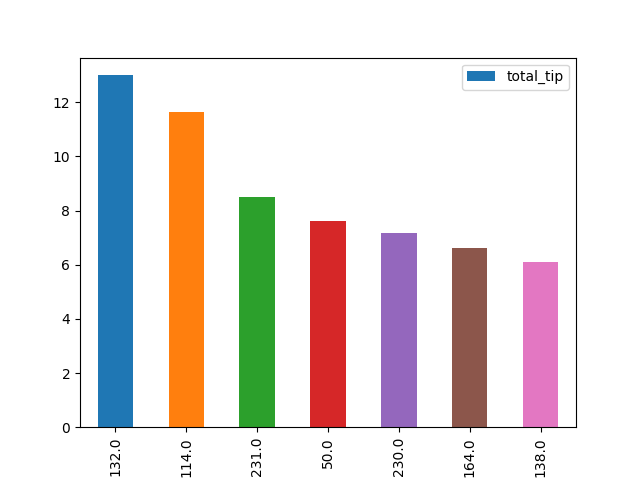
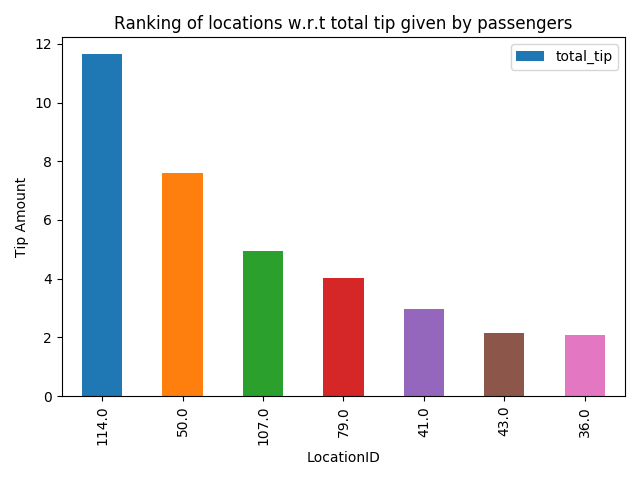
Added axis labels

diff --git a/code/customer-code/customer_realtime-view.py b/code/customer-code/customer_realtime-view.py
@@ -21,6 +21,10 @@ for i in range(1,264):
 
 print(df)
 
+print("Customer Realtimeview App")
+
+print("This will start updating as soon as streaming results are out")
+
 
 
 def updateOutputPlot(location_id,total_tip):
@@ -36,8 +40,16 @@ def updateDataframe(location_id,total_tip,n):
     df.iat[location_id-1,1] = total_tip
     #Getting the top n tip earning areas 
     df_plot = df.nlargest(n, 'total_tip')
+
+   
     
     df_plot.plot(kind='bar',x='location_id',y='total_tip',color=mcolors.TABLEAU_COLORS)
+
+    plt.title('Ranking of locations w.r.t total tip given by passengers')
+    plt.xlabel('LocationID')
+    plt.ylabel('Tip Amount')
+    plt.tight_layout()
+    
     plt.savefig(curr_path+"/../../reports/near-realtime_results/near-realtime-bar-chart.png")
     plt.clf()
 

diff --git a/code/customer-code/customerstreamapp/src/main/java/com/kibria/Customerstreamapp.java b/code/customer-code/customerstreamapp/src/main/java/com/kibria/Customerstreamapp.java
@@ -292,7 +292,7 @@ public class Customerstreamapp {
 		
 
 		//maxTipDest.print();
-		env.execute("Tips per location");
+		env.execute("Total Tip per location");
 
 
 

diff --git a/reports/Assignment-3-Design.md b/reports/Assignment-3-Design.md
@@ -20,14 +20,14 @@ Previously, this dataset used to include the latitude and longitude of the picku
 
 **Streaming analytics:**
 
-The taxi drivers might be interested in finding the pickup areas of those rides, in which the passagers usually gives more **tips**. So, here I'm going to develop a streaming analytics for the **taxi drivers or a company devloping an app for the drivers (my customers)**, where they will be able to see the status quo of total tip amount paid by the passengers for the rides which started in these pickup location. So that, if a driver wishes, he can go to such vicinties in the hope of earning more based on the idea that these areas might have more corporate offices or the passagers living in these areas are relatively rich and generous. 
+The taxi drivers might be interested in finding the pickup areas of those rides, in which the passagers usually gives more **tip**. So, here I'm going to develop a streaming analytics for the **taxi drivers or a company devloping an app for the drivers (my customers)**, where they will be able to see the status quo of total tip amount paid by the passengers for the rides which started in these pickup location. So that, if a driver wishes, he can go to such vicinties in the hope of earning more based on the idea that these areas might have more corporate offices or the passagers living in these areas are relatively rich and generous. 
 
-To be more clear, the taxi drivers will be able see the **top n** (my customer defines the **n**) pickup locations which resulted into highest total tips, updating in near real-time.
+To be more clear, the taxi drivers will be able see the **top n** (my customer defines the **n**) pickup locations which resulted into highest total tip, updating in near real-time.
 
 **Batch analytics from the historical output of Streaming analytics:**
 
 
-Here again my customers will be able to see the pickup locations of the taxi rides which resulted into maximum tips but as this analysis will be generated from the **bounded data** generated by my streming analytics output, my customers will have the freedom of seeing this batch analytics results based on their specified time-frame (i.e. daily, weekly, monthly etc).
+Here again my customers will be able to see the pickup locations of the taxi rides which resulted into maximum tip but as this analysis will be generated from the **bounded data** generated by my streming analytics output, my customers will have the freedom of seeing this batch analytics results based on their specified time-frame (i.e. daily, weekly, monthly etc).
 
 Moreover, I will plot the result of this batch analytics onto a **co-ordinate map**, to make this analytics intutive and easy to understand for my customers.
 
@@ -36,7 +36,7 @@ Moreover, I will plot the result of this batch analytics onto a **co-ordinate ma
 
 **Answer:**
 
-**i.** The streaming analytics that I am implementing here should handle **keyed** data stream. Because, the analytics is going to calculate total amount tips of all the taxi rides starting from a particular pickup location. In order to calculate this, the data stream must be keyed by the pickup location id **(PULocationID)**, so that the incoming taxi ride events will be partioned by their **(PULocationID)** and the output of the streaming analytics for each of these locations will be calculated parallelly.
+**i.** The streaming analytics that I am implementing here should handle **keyed** data stream. Because, the analytics is going to calculate total amount tip of all the taxi rides starting from a particular pickup location. In order to calculate this, the data stream must be keyed by the pickup location id **(PULocationID)**, so that the incoming taxi ride events will be partioned by their **(PULocationID)** and the output of the streaming analytics for each of these locations will be calculated parallelly.
 
 ![Key](images/keyBy.png)
 For example, in the diagram above, I am receiving the taxi ride events from the Kafka source and then passing it through the **KeyBy Operator** which eventually allocates them to the **Window Operators**. In the diagram the taxi ride events **R<sub>1</sub>** through **R<sub>6</sub>** are colored according to their location ID. After passing through the keyBy Operator they are **partitioned** according to their pickup location ID and then they are passed to appropiate window operator. Then each of these window operators **materializes** the result of streaming analysis parallelly **when** at proper time (The discussion about timing of window matrialization is discussed in answer of question no. 3).
@@ -55,29 +55,29 @@ But definately, my ultimate target is to provide exactly-once delivery.
 
 **Answer:**
 
-**i.** The particular streaming analytics that I'm implementing here requires consideration of **event time**. Because, here I'm computing the total amount of tips per pickup location and presenting the ouput to my customers (taxi drivers) in near-realtime, so that the drivers can go these vicinities to find such a trip in the hope of more earnings. 
+**i.** The particular streaming analytics that I'm implementing here requires consideration of **event time**. Because, here I'm computing the total amount of tip per pickup location and presenting the ouput to my customers (taxi drivers) in near-realtime, so that the drivers can go these vicinities to find such a trip in the hope of more earnings. 
 
 The necessity of providing my customers with **accurate analysis** is the reason behind considering **event time** during processing. 
 
-Let's assume a scenario where my stream processing system receives a taxi ride event (in current time) with a very high amount of tip but actually the ride was taken on the day before (**a late and out-of-order data event by a huge margin**). If my system considers **ingestion time** for the data events, then this late and out-of-order event will be considered as a freshly ended taxi ride and the generous tip amount will be aggegated to the running sum of the window for this location. In worst case, this sum will be greater than the **n<sup>th</sup>** highest sum and this location would pop up as a highly rewarding pickup location in driver's near-realtime output window. So, naturally the driver would be tempted to pick up passengers from this location expecting to earn more, but in reality this location is not one of those desired pick-up locations. Subsequently, in this case the driver is losing the opportunity of earning more by coming to this location **false** rewarding location instead of going to a location which is actually rewarding (in terms of earning more tips).
+Let's assume a scenario where my stream processing system receives a taxi ride event (in current time) with a very high amount of tip but actually the ride was taken on the day before (**a late and out-of-order data event by a huge margin**). If my system considers **ingestion time** for the data events, then this late and out-of-order event will be considered as a freshly ended taxi ride and the generous tip amount will be aggegated to the running sum of the window for this location. In worst case, this sum will be greater than the **n<sup>th</sup>** highest sum and this location would pop up as a highly rewarding pickup location in driver's near-realtime output window. So, naturally the driver would be tempted to pick up passengers from this location expecting to earn more, but in reality this location is not one of those desired pick-up locations. Subsequently, in this case the driver is losing the opportunity of earning more by coming to this location **false** rewarding location instead of going to a location which is actually rewarding (in terms of earning more tip).
 
 This dataset contains two timestamp fields: **tpep_pickup_datetime & tpep_dropoff_datetime**. As we all know, duration of each of the taxi rides vary, so for 2 rides starting one after another it is not guaranteed that the ride which started earlier would necessarily finish earlier than the other. So, we can't consider the *pickup time* as our event time. Instead, we are considering **tpep_dropoff_datetime** as our event time to provide streaming analytics on freshly ended taxi ride events. 
 
 
-**ii.** **Sliding windows** should be developed as my analytics will present the drivers with a regularly updated graph of the most rewarding locations in terms of higher total tips. So, while computing this total tips the streaming app should always consider the most recently ended taxi rides and produce the output at low-latency (by triggering the **materialization** of the windows as soon as possible) and at the same time maintain a **continuum** the results, both of which are provided by **Sliding windows** of time.
+**ii.** **Sliding windows** should be developed as my analytics will present the drivers with a regularly updated graph of the most rewarding locations in terms of higher total tip. So, while computing this total tip the streaming app should always consider the most recently ended taxi rides and produce the output at low-latency (by triggering the **materialization** of the windows as soon as possible) and at the same time maintain a **continuum** the results, both of which are provided by **Sliding windows** of time.
 
-Following example will demonstrate why it is important to maintain a continuum while of event stream in my streaming analytics (calculating the total tips per location).
+Following example will demonstrate why it is important to maintain a continuum while of event stream in my streaming analytics (calculating the total tip per location).
 
 ![Key](images/tumbling.png)
-In the first case, we are considering *tumbling windows* of 4 seconds, where the sum of the tips are being materialized at the end of each window. Additionally, there is a trigger which fires whenever a new taxi ride event arrives. Now, at the end of 4th second the first window will be materialized and the sum of the tips will be **27**. Then the 2nd window starts and another taxi ride event with tip amount 5 arrives. But, as we had defined a trigger which fires on the arrival of a new element, that trigger will fire now and the result for the new window will be materialized and the sum of the tips will be **5**, which is not what we want.
+In the first case, we are considering *tumbling windows* of 4 seconds, where the sum of the tip are being materialized at the end of each window. Additionally, there is a trigger which fires whenever a new taxi ride event arrives. Now, at the end of 4th second the first window will be materialized and the sum of the tip will be **27**. Then the 2nd window starts and another taxi ride event with tip amount 5 arrives. But, as we had defined a trigger which fires on the arrival of a new element, that trigger will fire now and the result for the new window will be materialized and the sum of the tip will be **5**, which is not what we want.
 
 ![Key](images/sliding.png)
 
-Now, lets consider the same example with sliding window. Here, again we have window width of 4 seconds which slides by 1 seconds and a trigger which fires at a new element arrival. Now for at the end of the first window the sum will be same as the tumbling window which is **27**. But, this time when the next taxi ride with tip amount 5 arrives another overlapping sliding window (green in the figure) will be materialzed as the watermark will pass the end of this window by this time and the sum of the tips will be **25**, which is the exact output that we desire.
+Now, lets consider the same example with sliding window. Here, again we have window width of 4 seconds which slides by 1 seconds and a trigger which fires at a new element arrival. Now for at the end of the first window the sum will be same as the tumbling window which is **27**. But, this time when the next taxi ride with tip amount 5 arrives another overlapping sliding window (green in the figure) will be materialzed as the watermark will pass the end of this window by this time and the sum of the tip will be **25**, which is the exact output that we desire.
 
 Thus, I'm using sliding window for my streaming analytics. 
 
-For example my analytics will be computing total tips for each location for the past 15 mins computed in every 5 mins. A new window will be created in every 5 mins, and each of this windows will contain the taxi ride events recieved in last 15 mins.....
+For example my analytics will be computing total tip for each location for the past 15 mins computed in every 5 mins. A new window will be created in every 5 mins, and each of this windows will contain the taxi ride events recieved in last 15 mins.....
 
 overlap
 Result materialization
@@ -89,7 +89,7 @@ Result materialization
 
 Among the two most important performance metrics (*latency* and *throughput*) of stream processing systems, **throughput** would be most relavant metric for my customers.
 
-The reason behind this is that my customers want to see a list of the most rewarding pick-up locations in terms of tips earned by the end of these rides. In other words, they want the see the statistics of tip amount grouped by pick-up locations. As we know from the **Central Limit Theorem**, the confidence in the estimate is proportional to sample size. Namely, as the sample increases, so does the confidence in the estimate that we calculate, which in terms results into lower uncertainty and higher precision. 
+The reason behind this is that my customers want to see a list of the most rewarding pick-up locations in terms of tip earned by the end of these rides. In other words, they want the see the statistics of tip amount grouped by pick-up locations. As we know from the **Central Limit Theorem**, the confidence in the estimate is proportional to sample size. Namely, as the sample increases, so does the confidence in the estimate that we calculate, which in terms results into lower uncertainty and higher precision. 
 
 So, for this streaming analytics to be reliable for my customers, it has make sure that it processes event streams with high throughput. Because, high throughput will ensure **higher reliablity** of the result that we disseminate back to our customer. Because, then my customers would be assured that a pick-up location with high tip amount (result of the streaming analytics) is actually rewarding, as it was computed by processing a substantial number of taxi ride events. Otherwise stated, high throughput will ensure that the result is not skewed by any outlier (i.e. a single taxi ride with a remarkably high amount of tip).
 
@@ -195,10 +195,10 @@ The class *MyExtractor* is called for generating these **Watermarks**, which is 
     ![reduce](images/Reduce.PNG)
 
     2. So, now there will be only one object in the `Iterable` of the *TotalTipForThisWindow* (`ProcessWindowFunction`) class. So, while window *materialization*, we can get the first object in the iterable and publish the result for this window. 
-    The result here is a Tuple of 3 elements (key, Sum of Tips, ending timestamp of the window).
+    The result here is a Tuple of 3 elements (key, Sum of tip, ending timestamp of the window).
     ![reduce](images/ProcessWindow.PNG) 
 
-6. Instead of providing the customers with a Tuple of 3 elements, I wanted to show them something more intuitive. So, I used `Redis` as my near-realtime sink, which can be queried by the [customer_realtime-view](../code/customer-code/customer_realtime-view.py) app to produce a near-realtime ranking of the **n** most rewarding pick-up locations in terms of earning tips. The resultant image is stored in [reports/near-realtime_results](near-realtime_results/) directory.
+6. Instead of providing the customers with a Tuple of 3 elements, I wanted to show them something more intuitive. So, I used `Redis` as my near-realtime sink, which can be queried by the [customer_realtime-view](../code/customer-code/customer_realtime-view.py) app to produce a near-realtime ranking of the **n** most rewarding pick-up locations in terms of earning tip. The resultant image is stored in [reports/near-realtime_results](near-realtime_results/) directory.
 ![reduce](images/pl.PNG)
 
 As `Redis` is a key-value store, so I mapped the initial Tuple3 output to Tuple2<Sring,String> where *"L"+location_id* is the **key** and a serialzed JSON object of *location_id* and *total_tip* attributes is the **value** to be stored in `Redis`. The redundancy of having *location_id* in the value will be discussed while describing the batch processing procedure in 3.2. 
@@ -265,7 +265,7 @@ Finally, it creates a POST request for `elasticsearch` and adds the request to R
 
 **Answer:**
 
-Here again my customers will be able to see the pickup locations of the taxi rides which resulted into maximum tips but as this analysis will be generated from the **bounded data** generated by my streming analytics output, my customers will have the freedom of seeing this batch analytics results based on their specified time-frame (i.e. daily, weekly, monthly etc).
+Here again my customers will be able to see the pickup locations of the taxi rides which resulted into maximum tip but as this analysis will be generated from the **bounded data** generated by my streming analytics output, my customers will have the freedom of seeing this batch analytics results based on their specified time-frame (i.e. daily, weekly, monthly etc).
 
 More specifically, the *total_tip* field from the streaming analytics results will be aggregated for the specified time duration and the aggregated *total_tip* value (Sum of *total_tip*) for this time duration will be plotted onto a **coordinate map**, to make this analytics intutive and easy to understand for my customers. The plotting will be grouped by (buckets in `elasticsearch`) location coordinates (geo_point in `Kibana`)
 
@@ -283,14 +283,14 @@ I have already implemented this batch analytics, and the implementation details 
 
 4. Finally I'm selecting the metrics as shown in the screenshot below. Here, I'm aggregating the *total_tip* field and finding the **Sum** for the specified 24 hour time interval. Also, I'm bucketing (grouping) the documents (1 for each result of my streaming analytics which was outputted during the specified time interval) by the location coordinates. 
 
-    So, the output of batch analytics shows the **Aggregation (Sum)** of total tips for the specified time interval grouped by locations. It plots the locations (geo_points) using *Scaled Circle Markers*, the size of which is proportionate to the amount of the aggregation value. 
+    So, the output of batch analytics shows the **Aggregation (Sum)** of total tip for the specified time interval grouped by locations. It plots the locations (geo_points) using *Scaled Circle Markers*, the size of which is proportionate to the amount of the aggregation value. 
      ![lat](images/map.PNG)
 
 **Q3:** Assume that the streaming analytics detects a critical condition (e.g., a very high rate of alerts) that should trigger the execution of a batch analytics to analyze historical data. 
 
 **Answer:** 
 
-Let's consider a suitable critical condition for my streaming analytics application, where it identifies a pick-up location with an **insanely high value** of total tips. So, before disseminating the result back to my customer, it would be wise for my streaming analytics app to perform a batch analytics of the historial outputs to indentify whether this exceedingly high amount of tip aligns with the historial tipping pattern this location. Then it can disseminate the result back to the customer along with the result of the batch analytics of historical streaming results. 
+Let's consider a suitable critical condition for my streaming analytics application, where it identifies a pick-up location with an **insanely high value** of total tip. So, before disseminating the result back to my customer, it would be wise for my streaming analytics app to perform a batch analytics of the historial outputs to indentify whether this exceedingly high amount of tip aligns with the historial tipping pattern this location. Then it can disseminate the result back to the customer along with the result of the batch analytics of historical streaming results. 
 
 Now that the customer has been presented with, the historical tipping pattern along with the exceedingly high current tip amount for the location, it is *up to the customer* (taxi driver) whether he wants to go to that location to increase his chance of getting such a highly rewarding ride or ignore the location.
 

diff --git a/reports/Assignment-3-Deployment.md b/reports/Assignment-3-Deployment.md
@@ -13,7 +13,7 @@
 * Redis (Latest Docker image)
 * Python (v3.*)
 
-**Note:** All the commands below should be run from the **root directory of the repository**. Some of the bash scipts require root access. So, if asked, please provide the root credentials.
+**Note:** All the commands below should be run from the **root directory of the repository**. Some of the bash scipts require root access. So, if asked, please provide the root credentials. Also, note that starting `Flink` slave nodes require adding them to `~/.ssh/known_hosts`. So, you have to explicitly type **yes** when prmopted.
 
 **Install `Maven`**
 ```bash
@@ -71,7 +71,13 @@ Upload the schema of the **final sink `Elasticsearch` (mysimpbdp-coredms)**
 **Running Customerstreamapp**
 
 ```bash
- code/customer-code/run-customerstreamapp
+ code/customer-code/run-customerstreamapp <parallelism degree>
+```
+
+**Running Customer Real Timeview**
+
+```bash
+ python3 code/customer-code/customer_realtime-view.py --n <number of locations>
 ```
 
 
@@ -81,11 +87,6 @@ Upload the schema of the **final sink `Elasticsearch` (mysimpbdp-coredms)**
  python3 code/customer-code/customer_producer.py --row <number of rows>
 ```
 
-**Running Customer Real Timeview**
-
-```bash
- python3 code/customer-code/customer_realtime-view.py --n <number of locations>
-```
 
 
 ## For cleanup (Removing all)
